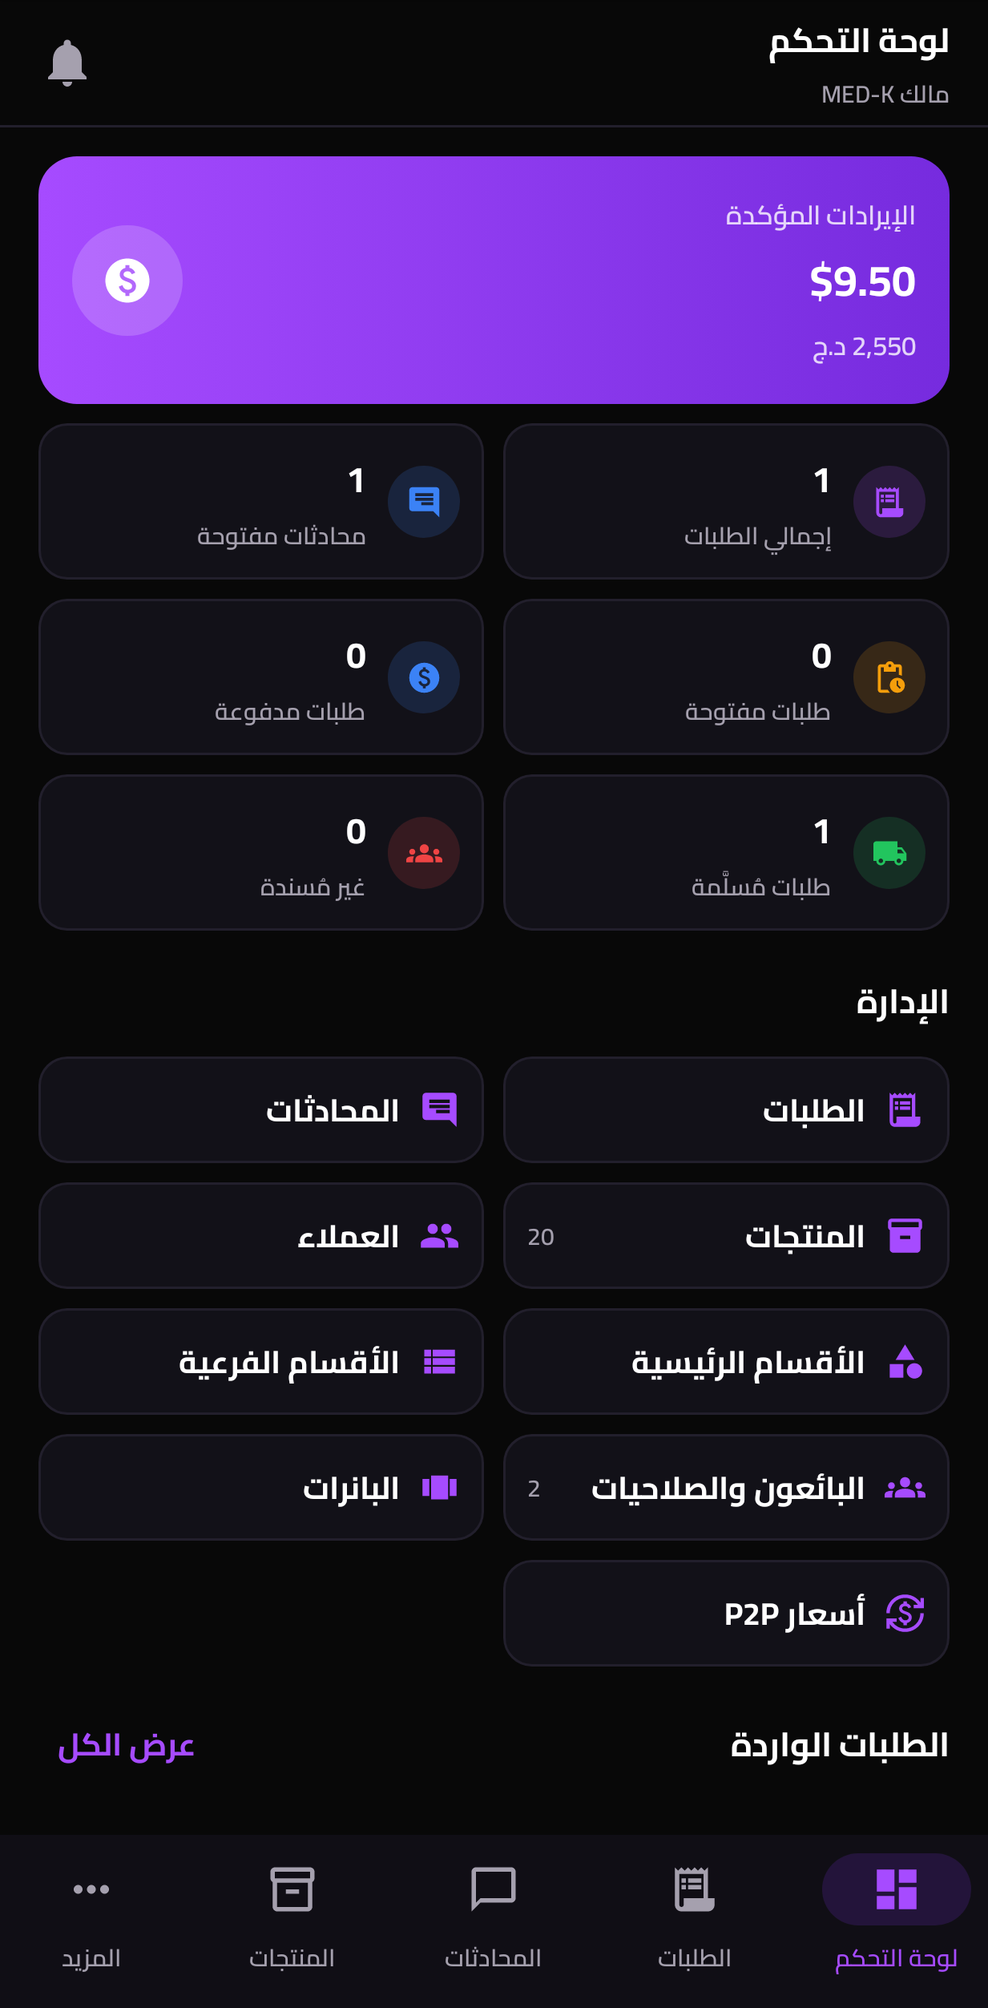
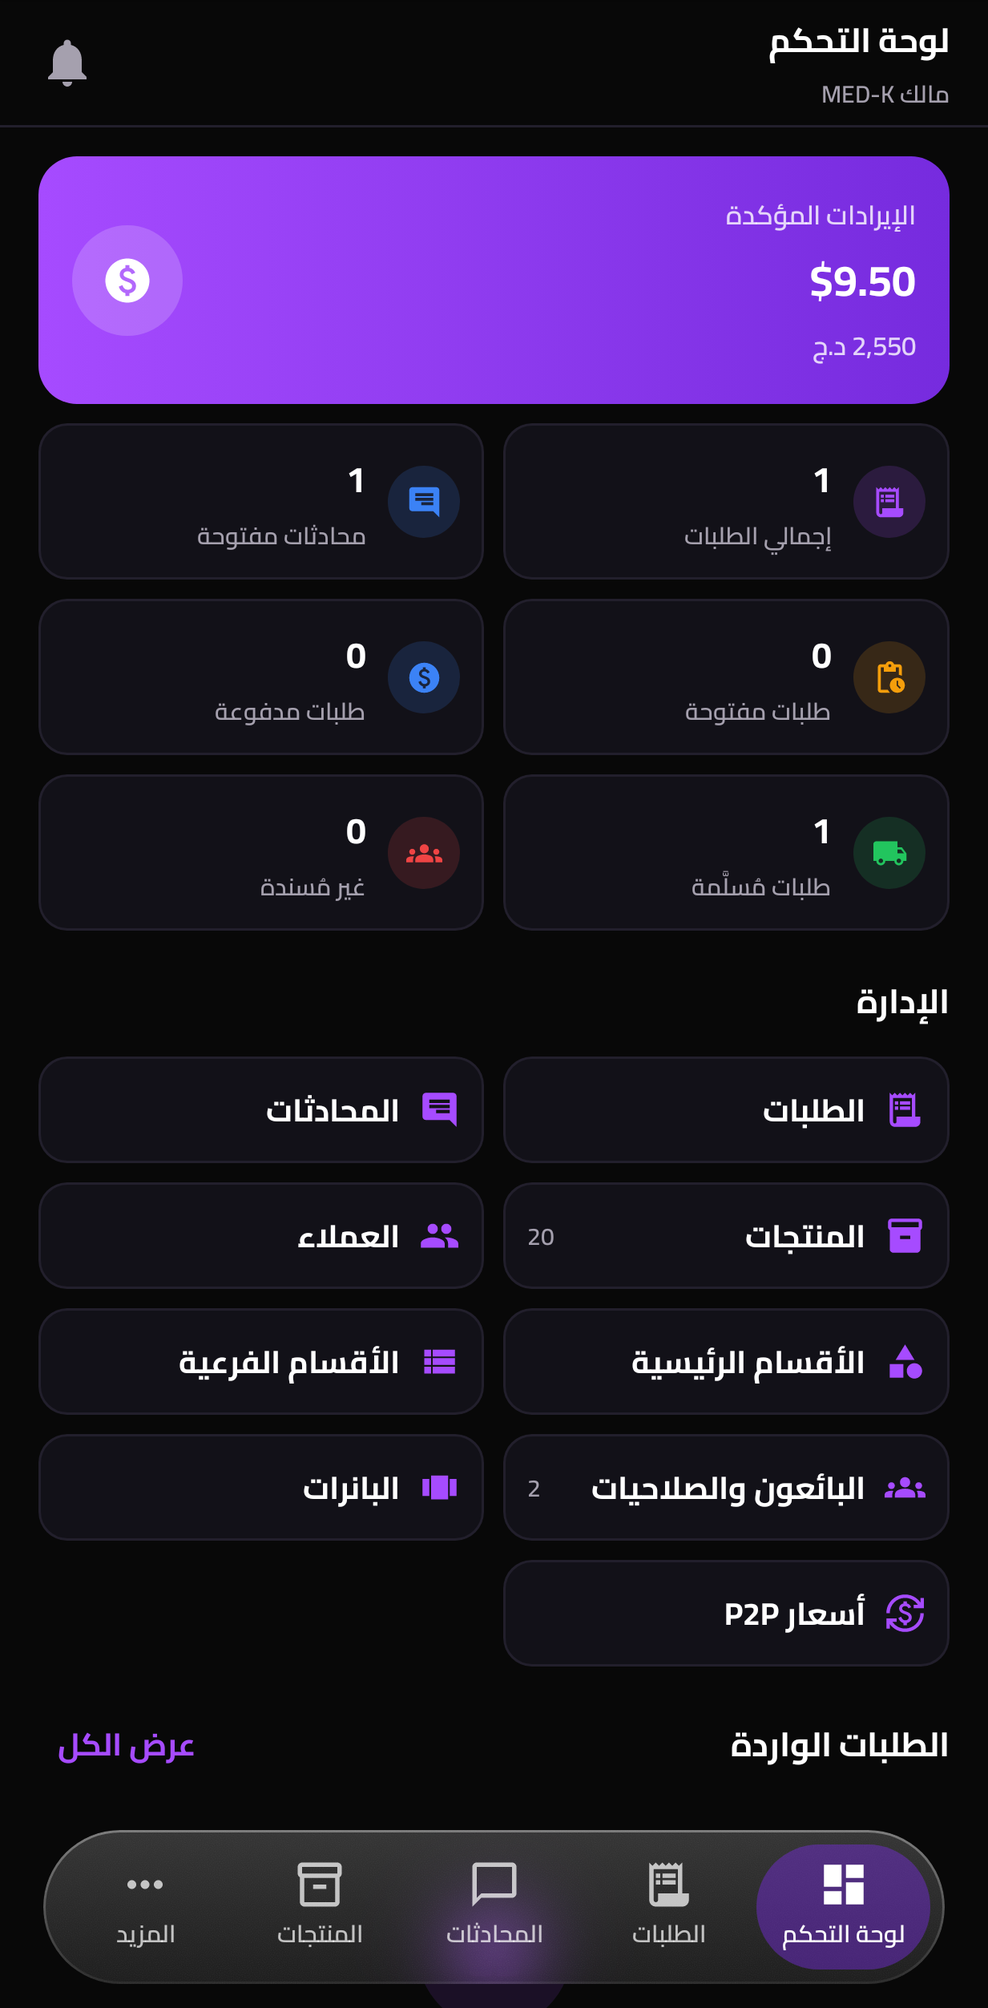
Frosted-glass floating bottom bar: content scrolls behind it (Haze backdrop blur)
- No opaque strip: the bar floats over the content in both apps
- Real backdrop blur on Android 12+, translucent fallback below
- Tab screens pad their scroll content by the bar height

Claude-Session: https://claude.ai/code/session_01Dmminv6J6ivYhR2jtxdx3e

Changed region(s): [[0.0308, 0.903, 0.9862, 0.9964]]

diff --git a/app/src/main/java/com/medk/app/ui/MedkRoot.kt b/app/src/main/java/com/medk/app/ui/MedkRoot.kt
@@ -72,6 +72,9 @@ import androidx.compose.runtime.setValue
 import androidx.compose.ui.Alignment
 import androidx.compose.ui.Modifier
 import androidx.compose.ui.draw.clip
+import androidx.compose.foundation.layout.WindowInsets
+import dev.chrisbanes.haze.hazeChild
+import dev.chrisbanes.haze.haze
 import androidx.compose.foundation.layout.Arrangement
 import androidx.compose.ui.graphics.Brush
 import androidx.compose.ui.draw.shadow
@@ -279,12 +282,16 @@ private fun AppShell(profile: Profile, pendingLink: MutableStateFlow<PendingLink
             }
         }
     }) {
-        Scaffold(
-            containerColor = MaterialTheme.colorScheme.background,
-            bottomBar = { if (route in Routes.tabs) BottomBar(route, cartCount) { nav.toTab(it) } },
-        ) { pad ->
+        val hazeState = remember { dev.chrisbanes.haze.HazeState() }
+        val showBar = route in Routes.tabs
+        val inset = glassBarInset()
+        CompositionLocalProvider(
+            com.medk.app.ui.components.LocalHazeState provides hazeState,
+            com.medk.app.ui.components.LocalBottomBarInset provides if (showBar) inset else 0.dp,
+        ) { Box(Modifier.fillMaxSize().background(MaterialTheme.colorScheme.background)) {
             NavHost(
-                nav, if (isTeam) Routes.WORKSPACE else Routes.HOME, Modifier.padding(bottom = pad.calculateBottomPadding()),
+                nav, if (isTeam) Routes.WORKSPACE else Routes.HOME,
+                Modifier.fillMaxSize().haze(hazeState).let { if (showBar) it else it.navigationBarsPadding() },
                 enterTransition = { slideIn() }, exitTransition = { fadeOut(tween(200)) },
                 popEnterTransition = { fadeIn(tween(250)) }, popExitTransition = { slideOut() },
             ) {
@@ -300,7 +307,8 @@ private fun AppShell(profile: Profile, pendingLink: MutableStateFlow<PendingLink
                 composable(Routes.ADMIN_PRODUCTS) { AdminProductsScreen(nav) }
                 detailRoutes(nav)
             }
-        }
+            if (showBar) Box(Modifier.align(Alignment.BottomCenter)) { BottomBar(route, cartCount) { nav.toTab(it) } }
+        } }
     }
 }
 
@@ -362,31 +370,36 @@ private fun BottomBar(current: String?, cartCount: Int, onSelect: (String) -> Un
     ClassicNavBar(tabs, current, mapOf(Routes.CART to cartCount), onSelect)
 }
 
-/** Floating, pill-shaped "glass" bottom bar (shared by the store and owner apps). */
+/** Floating, pill-shaped frosted-glass bottom bar (shared by the store and owner apps). */
 @Composable
 fun ClassicNavBar(tabs: List<Tab>, current: String?, badges: Map<String, Int>, onSelect: (String) -> Unit) {
     val dark = com.medk.app.ui.theme.LocalIsDark.current
+    val haze = com.medk.app.ui.components.LocalHazeState.current
     val pill = RoundedCornerShape(50)
-    val glassFill = if (dark) Brush.verticalGradient(listOf(Color(0xFF2A2340).copy(alpha = .78f), Color(0xFF15121F).copy(alpha = .70f)))
-                    else Brush.verticalGradient(listOf(Color.White.copy(alpha = .92f), Color(0xFFF1ECFA).copy(alpha = .80f)))
-    val sheen = Brush.verticalGradient(listOf(Color.White.copy(alpha = if (dark) .10f else .55f), Color.Transparent), endY = 90f)
-    val rim = Brush.verticalGradient(listOf(Color.White.copy(alpha = if (dark) .28f else .9f), MedkColors.Violet.copy(alpha = .22f)))
-    Box(Modifier.fillMaxWidth().navigationBarsPadding().padding(horizontal = 16.dp, vertical = 10.dp)) {
+    val glass = dev.chrisbanes.haze.HazeStyle(
+        backgroundColor = MaterialTheme.colorScheme.background,
+        tint = dev.chrisbanes.haze.HazeTint(if (dark) Color.White.copy(alpha = .07f) else Color.White.copy(alpha = .40f)),
+        blurRadius = 24.dp, noiseFactor = .04f,
+        fallbackTint = dev.chrisbanes.haze.HazeTint(if (dark) Color(0xFF221D30).copy(alpha = .80f) else Color.White.copy(alpha = .80f)),
+    )
+    val sheen = Brush.verticalGradient(listOf(Color.White.copy(alpha = if (dark) .12f else .50f), Color.White.copy(alpha = .02f)))
+    val rim = Brush.verticalGradient(listOf(Color.White.copy(alpha = if (dark) .35f else .95f), Color.White.copy(alpha = if (dark) .06f else .35f)))
+    Box(Modifier.fillMaxWidth().navigationBarsPadding().padding(horizontal = 18.dp, vertical = 10.dp)) {
         Row(
-            Modifier.fillMaxWidth().height(66.dp)
-                .shadow(18.dp, pill, ambientColor = MedkColors.Purple.copy(alpha = .35f), spotColor = MedkColors.Purple.copy(alpha = .45f))
-                .clip(pill).background(glassFill).background(sheen).border(1.dp, rim, pill)
+            Modifier.fillMaxWidth().height(64.dp).clip(pill)
+                .let { m -> if (haze != null) m.then(Modifier.hazeChild(haze, glass)) else m.background(glass.fallbackTint!!.color) }
+                .background(sheen).border(1.dp, rim, pill)
                 .padding(horizontal = 6.dp),
             verticalAlignment = Alignment.CenterVertically,
         ) {
             tabs.forEach { t ->
                 val sel = current == t.route
                 val bg by androidx.compose.animation.animateColorAsState(
-                    if (sel) MedkColors.Purple.copy(alpha = if (dark) .55f else .16f) else Color.Transparent, label = "tabBg")
+                    if (sel) MedkColors.Purple.copy(alpha = if (dark) .45f else .18f) else Color.Transparent, label = "tabBg")
                 val tint by androidx.compose.animation.animateColorAsState(
-                    if (sel) (if (dark) Color.White else MedkColors.Purple) else MaterialTheme.colorScheme.onSurfaceVariant, label = "tabTint")
+                    if (sel) (if (dark) Color.White else MedkColors.Purple) else MaterialTheme.colorScheme.onSurface.copy(alpha = .72f), label = "tabTint")
                 Column(
-                    Modifier.weight(1f).height(54.dp).clip(pill).background(bg)
+                    Modifier.weight(1f).height(52.dp).clip(pill).background(bg)
                         .clickable(interactionSource = remember { androidx.compose.foundation.interaction.MutableInteractionSource() },
                             indication = null) { onSelect(t.route) },
                     horizontalAlignment = Alignment.CenterHorizontally, verticalArrangement = Arrangement.Center,
@@ -401,3 +414,8 @@ fun ClassicNavBar(tabs: List<Tab>, current: String?, badges: Map<String, Int>, o
         }
     }
 }
+
+/** Total vertical space the floating bar covers (bar + margins + system navigation bar). */
+@Composable
+fun glassBarInset(): androidx.compose.ui.unit.Dp =
+    84.dp + WindowInsets.navigationBars.asPaddingValues().calculateBottomPadding()

diff --git a/app/src/main/java/com/medk/app/ui/admin/OwnerApp.kt b/app/src/main/java/com/medk/app/ui/admin/OwnerApp.kt
@@ -15,6 +15,8 @@ import androidx.compose.foundation.layout.padding
 import androidx.compose.foundation.layout.size
 import androidx.compose.foundation.layout.statusBarsPadding
 import androidx.compose.foundation.layout.width
+import androidx.compose.foundation.layout.navigationBarsPadding
+import dev.chrisbanes.haze.haze
 import androidx.compose.foundation.lazy.LazyColumn
 import androidx.compose.foundation.lazy.items
 import androidx.compose.foundation.rememberScrollState
@@ -131,15 +133,15 @@ fun OwnerAppShell(profile: Profile, pendingLink: MutableStateFlow<PendingLink?>)
         Tab(Routes.ADMIN_PRODUCTS, "المنتجات", Icons.Outlined.Inventory2, Icons.Filled.Inventory2),
         Tab(Routes.ADMIN_MORE, "المزيد", Icons.Filled.MoreHoriz, Icons.Filled.MoreHoriz),
     )
-    Scaffold(
-        containerColor = MaterialTheme.colorScheme.background,
-        bottomBar = {
-            if (tabs.any { it.route == route }) ClassicNavBar(tabs, route, mapOf(Routes.ADMIN_MORE to unread)) { r ->
-                nav.toTab(if (r == Routes.ADMIN_ORDERS) Routes.adminOrders() else r)
-            }
-        },
-    ) { pad ->
-        NavHost(nav, Routes.WORKSPACE, Modifier.padding(bottom = pad.calculateBottomPadding())) {
+    val hazeState = remember { dev.chrisbanes.haze.HazeState() }
+    val showBar = tabs.any { it.route == route }
+    val inset = com.medk.app.ui.glassBarInset()
+    androidx.compose.runtime.CompositionLocalProvider(
+        com.medk.app.ui.components.LocalHazeState provides hazeState,
+        com.medk.app.ui.components.LocalBottomBarInset provides if (showBar) inset else 0.dp,
+    ) { Box(Modifier.fillMaxSize().background(MaterialTheme.colorScheme.background)) {
+        NavHost(nav, Routes.WORKSPACE, Modifier.fillMaxSize().then(Modifier.haze(hazeState))
+            .let { if (showBar) it else it.then(Modifier.navigationBarsPadding()) }) {
             composable(Routes.WORKSPACE) { WorkspaceScreen(nav, null) }
             composable(Routes.ADMIN_ORDERS, listOf(navArgument("status") { type = NavType.StringType; nullable = true; defaultValue = null })) {
                 AdminOrdersScreen(nav, it.arguments?.getString("status"), asTab = true)
@@ -149,7 +151,12 @@ fun OwnerAppShell(profile: Profile, pendingLink: MutableStateFlow<PendingLink?>)
             composable(Routes.ADMIN_MORE) { AdminMoreScreen(nav, profile, unread) }
             detailRoutes(nav)
         }
-    }
+        if (showBar) Box(Modifier.align(Alignment.BottomCenter)) {
+            ClassicNavBar(tabs, route, mapOf(Routes.ADMIN_MORE to unread)) { r ->
+                nav.toTab(if (r == Routes.ADMIN_ORDERS) Routes.adminOrders() else r)
+            }
+        }
+    } }
 }
 
 /** Shown when a non-owner signs into the owner app. */
@@ -171,7 +178,7 @@ fun AdminMoreScreen(nav: NavHostController, profile: Profile, unread: Int) {
     val ctx = LocalContext.current
     Column(Modifier.fillMaxSize().statusBarsPadding()) {
         MedkTopBar("المزيد")
-        Column(Modifier.verticalScroll(rememberScrollState()).padding(16.dp), verticalArrangement = Arrangement.spacedBy(12.dp)) {
+        Column(Modifier.verticalScroll(rememberScrollState()).padding(start = 16.dp, end = 16.dp, top = 16.dp, bottom = 16.dp + com.medk.app.ui.components.LocalBottomBarInset.current), verticalArrangement = Arrangement.spacedBy(12.dp)) {
             MedkCard {
                 Row(verticalAlignment = Alignment.CenterVertically) {
                     MedkMark(44.dp)

diff --git a/app/src/main/java/com/medk/app/ui/admin/ProductAdminScreens.kt b/app/src/main/java/com/medk/app/ui/admin/ProductAdminScreens.kt
@@ -105,7 +105,7 @@ fun AdminProductsScreen(nav: NavHostController, asTab: Boolean = false) {
         containerColor = MaterialTheme.colorScheme.background,
         topBar = { Box(Modifier.statusBarsPadding()) { MedkTopBar("إدارة المنتجات", onBack = if (asTab) null else ({ nav.popBackStack() })) } },
         floatingActionButton = {
-            ExtendedFloatingActionButton(onClick = { nav.navigate(Routes.productEdit()) }, shape = MedkShapes.ChamferSm, containerColor = MedkColors.Purple, contentColor = Color.White,
+            ExtendedFloatingActionButton(onClick = { nav.navigate(Routes.productEdit()) }, modifier = Modifier.padding(bottom = com.medk.app.ui.components.LocalBottomBarInset.current), shape = MedkShapes.ChamferSm, containerColor = MedkColors.Purple, contentColor = Color.White,
                 icon = { Icon(Icons.Filled.Add, null) }, text = { Text("منتج جديد") })
         },
     ) { pad ->
@@ -117,7 +117,7 @@ fun AdminProductsScreen(nav: NavHostController, asTab: Boolean = false) {
                 if (d.allowed != null && d.allowed.isEmpty()) EmptyBox(Icons.Filled.Inventory2, "لا توجد أقسام مسموحة",
                     "اطلب من المالك منحك صلاحية على أقسام محددة")
                 else if (list.isEmpty()) EmptyBox(Icons.Filled.Inventory2, "لا توجد منتجات", "أضف منتجك الأول بالضغط على «منتج جديد»")
-                else LazyColumn(contentPadding = PaddingValues(16.dp, 12.dp, 16.dp, 96.dp), verticalArrangement = Arrangement.spacedBy(10.dp)) {
+                else LazyColumn(contentPadding = PaddingValues(16.dp, 12.dp, 16.dp, 96.dp + com.medk.app.ui.components.LocalBottomBarInset.current), verticalArrangement = Arrangement.spacedBy(10.dp)) {
                     items(list, key = { it.id }) { p ->
                         MedkCard(onClick = { nav.navigate(Routes.productEdit(p.id)) }, padding = PaddingValues(10.dp)) {
                             Row(verticalAlignment = Alignment.CenterVertically) {

diff --git a/app/src/main/java/com/medk/app/ui/admin/WorkspaceScreens.kt b/app/src/main/java/com/medk/app/ui/admin/WorkspaceScreens.kt
@@ -118,7 +118,7 @@ fun WorkspaceScreen(nav: NavHostController, onMenu: (() -> Unit)?) {
         PullToRefreshBox(refreshing, { vm.load(silent = true) }) {
             StateView(state, { vm.load() }) { d ->
                 val s = d.stats
-                LazyVerticalGrid(GridCells.Fixed(2), contentPadding = PaddingValues(16.dp, 12.dp),
+                LazyVerticalGrid(GridCells.Fixed(2), contentPadding = PaddingValues(start = 16.dp, end = 16.dp, top = 12.dp, bottom = 12.dp + com.medk.app.ui.components.LocalBottomBarInset.current),
                     horizontalArrangement = Arrangement.spacedBy(8.dp), verticalArrangement = Arrangement.spacedBy(8.dp)) {
                     if (canStats) item(span = { GridItemSpan(2) }) {
                         Row(Modifier.fillMaxWidth().clip(MedkShapes.Chamfer).background(MedkColors.PrimaryGradient).padding(14.dp), verticalAlignment = Alignment.CenterVertically) {
@@ -221,7 +221,7 @@ fun AdminOrdersScreen(nav: NavHostController, initialStatus: String?, asTab: Boo
             StateView(state, { vm.load() }) { (orders, people) ->
                 val list = orders.filter { (status == null || it.status == status) && (!onlyUnassigned || it.staffId == null) }
                 if (list.isEmpty()) EmptyBox(Icons.AutoMirrored.Filled.ReceiptLong, "لا توجد طلبات")
-                else LazyColumn(contentPadding = PaddingValues(16.dp), verticalArrangement = Arrangement.spacedBy(10.dp)) {
+                else LazyColumn(contentPadding = PaddingValues(start = 16.dp, end = 16.dp, top = 16.dp, bottom = 16.dp + com.medk.app.ui.components.LocalBottomBarInset.current), verticalArrangement = Arrangement.spacedBy(10.dp)) {
                     items(list, key = { it.id }) { o ->
                         Column {
                             OrderCard(o, { nav.navigate(Routes.order(o.id)) }, customerName = people[o.customerId]?.displayName)

diff --git a/app/src/main/java/com/medk/app/ui/home/HomeScreen.kt b/app/src/main/java/com/medk/app/ui/home/HomeScreen.kt
@@ -134,7 +134,7 @@ fun HomeScreen(nav: NavHostController, onMenu: () -> Unit, unread: Int) {
                     repeat(5) { Shimmer(Modifier.fillMaxWidth().height(72.dp)); Spacer(Modifier.height(10.dp)) }
                 }
                 is UiState.Error -> ErrorBox(s.message, { vm.load() })
-                is UiState.Success -> LazyColumn(contentPadding = PaddingValues(16.dp, 10.dp), verticalArrangement = Arrangement.spacedBy(10.dp)) {
+                is UiState.Success -> LazyColumn(contentPadding = PaddingValues(start = 16.dp, end = 16.dp, top = 10.dp, bottom = 10.dp + com.medk.app.ui.components.LocalBottomBarInset.current), verticalArrangement = Arrangement.spacedBy(10.dp)) {
                     item { BannerPager(s.data.banners) { slug -> if (slug != null) nav.navigate(Routes.category(slug)) else nav.toTab(Routes.CATEGORIES) } }
                     item { SectionHeader("خدماتنا الرئيسية", action = "عرض الكل", onAction = { nav.toTab(Routes.CATEGORIES) }, index = 1) }
                     items(s.data.categories.size, key = { s.data.categories[it].id }) { i ->

diff --git a/app/src/main/java/com/medk/app/ui/profile/ProfileScreens.kt b/app/src/main/java/com/medk/app/ui/profile/ProfileScreens.kt
@@ -122,7 +122,7 @@ fun ProfileScreen(nav: NavHostController, onMenu: () -> Unit) {
     val unread by c.notifications.unread.collectAsStateWithLifecycle()
     Column(Modifier.fillMaxSize().statusBarsPadding()) {
         MedkTopBar("حسابي", navigationIcon = { IconButton(onClick = onMenu) { Icon(Icons.Filled.Menu, "القائمة") } })
-        Column(Modifier.fillMaxSize().verticalScroll(rememberScrollState()).padding(16.dp), verticalArrangement = Arrangement.spacedBy(10.dp)) {
+        Column(Modifier.fillMaxSize().verticalScroll(rememberScrollState()).padding(start = 16.dp, end = 16.dp, top = 16.dp, bottom = 16.dp + com.medk.app.ui.components.LocalBottomBarInset.current), verticalArrangement = Arrangement.spacedBy(10.dp)) {
             Row(Modifier.fillMaxWidth().clip(MedkShapes.Chamfer).background(MedkColors.PrimaryGradient).padding(14.dp),
                 verticalAlignment = Alignment.CenterVertically) {
                 Box(Modifier.size(56.dp).clip(MedkShapes.Emblem).background(Color.White.copy(.25f)), contentAlignment = Alignment.Center) {

diff --git a/app/src/main/java/com/medk/app/ui/catalog/CatalogScreens.kt b/app/src/main/java/com/medk/app/ui/catalog/CatalogScreens.kt
@@ -96,7 +96,7 @@ fun CategoriesScreen(nav: NavHostController, onMenu: () -> Unit) {
             navigationIcon = { IconButton(onClick = onMenu) { Icon(Icons.Filled.Menu, "القائمة") } },
             actions = { IconButton(onClick = { nav.navigate(Routes.SEARCH) }) { Icon(Icons.Filled.Search, "بحث") } })
         StateView(state, { vm.load() }) { (cats, sections) ->
-            LazyVerticalGrid(GridCells.Fixed(2), contentPadding = PaddingValues(16.dp),
+            LazyVerticalGrid(GridCells.Fixed(2), contentPadding = PaddingValues(start = 16.dp, end = 16.dp, top = 16.dp, bottom = 16.dp + com.medk.app.ui.components.LocalBottomBarInset.current),
                 horizontalArrangement = Arrangement.spacedBy(10.dp), verticalArrangement = Arrangement.spacedBy(10.dp)) {
                 items(cats, key = { it.id }) { cat ->
                     CategoryTile(cat, sections.count { it.categoryId == cat.id && it.isActive }) { nav.navigate(Routes.category(cat.slug)) }

diff --git a/app/src/main/java/com/medk/app/ui/chat/ChatScreens.kt b/app/src/main/java/com/medk/app/ui/chat/ChatScreens.kt
@@ -148,7 +148,7 @@ fun ConversationsScreen(nav: NavHostController, onMenu: (() -> Unit)?, showBack:
             StateView(state, { vm.load() }) { list ->
                 if (list.isEmpty()) EmptyBox(Icons.Filled.Forum, "لا توجد محادثات بعد",
                     "عند إتمام طلب أو التواصل مع بائع ستظهر المحادثة هنا", "تواصل مع الدعم", { openSupport(nav, scope, toast) })
-                else LazyColumn(contentPadding = PaddingValues(16.dp, 12.dp), verticalArrangement = Arrangement.spacedBy(8.dp)) {
+                else LazyColumn(contentPadding = PaddingValues(start = 16.dp, end = 16.dp, top = 12.dp, bottom = 12.dp + com.medk.app.ui.components.LocalBottomBarInset.current), verticalArrangement = Arrangement.spacedBy(8.dp)) {
                     items(list, key = { it.conv.id }) { item -> ConversationRow(item, me) { nav.navigate(Routes.chat(item.conv.id)) } }
                 }
             }

diff --git a/app/src/main/java/com/medk/app/ui/cart/CartScreen.kt b/app/src/main/java/com/medk/app/ui/cart/CartScreen.kt
@@ -114,7 +114,7 @@ fun CartScreen(nav: NavHostController, onMenu: () -> Unit) {
         }
         // summary
         Column(Modifier.fillMaxWidth().clip(RoundedCornerShape(topStart = 14.dp, topEnd = 14.dp))
-            .background(MaterialTheme.colorScheme.surfaceContainer).padding(horizontal = 16.dp, vertical = 12.dp), verticalArrangement = Arrangement.spacedBy(8.dp)) {
+            .background(MaterialTheme.colorScheme.surfaceContainer).padding(start = 16.dp, end = 16.dp, top = 12.dp, bottom = 12.dp + com.medk.app.ui.components.LocalBottomBarInset.current), verticalArrangement = Arrangement.spacedBy(8.dp)) {
             Row(verticalAlignment = Alignment.CenterVertically) {
                 Text("الإجمالي", style = MaterialTheme.typography.titleMedium, modifier = Modifier.weight(1f))
                 Column(horizontalAlignment = Alignment.End) {

diff --git a/app/src/main/java/com/medk/app/ui/components/Glass.kt b/app/src/main/java/com/medk/app/ui/components/Glass.kt
@@ -1,0 +1,13 @@
+package com.medk.app.ui.components
+
+import androidx.compose.runtime.compositionLocalOf
+import androidx.compose.runtime.staticCompositionLocalOf
+import androidx.compose.ui.unit.Dp
+import androidx.compose.ui.unit.dp
+import dev.chrisbanes.haze.HazeState
+
+/** Height covered by the floating glass bottom bar; tab screens pad their scroll content by it. */
+val LocalBottomBarInset = compositionLocalOf<Dp> { 0.dp }
+
+/** Source of the backdrop blur for the glass bottom bar (null = no blur available). */
+val LocalHazeState = staticCompositionLocalOf<HazeState?> { null }

diff --git a/app/src/testStoreDemo/java/com/medk/app/DemoFlowTest.kt b/app/src/testStoreDemo/java/com/medk/app/DemoFlowTest.kt
@@ -78,7 +78,7 @@ class DemoFlowTest {
         rule.onNodeWithText("اكتب رسالتك…", useUnmergedTree = true).let { }
         rule.onAllNodesWithText("ID: 123456789").onFirst()
         rule.onNode(androidx.compose.ui.test.hasContentDescription("إرسال")).performClick()
-        waitText("استلمت طلبك", 10000); shot("08_chat")
+        waitText("استلمت طلبك", 25000); shot("08_chat")
         assertTrue(DemoStore.messages.any { it.body?.contains("استلمت طلبك") == true })
     }
 
